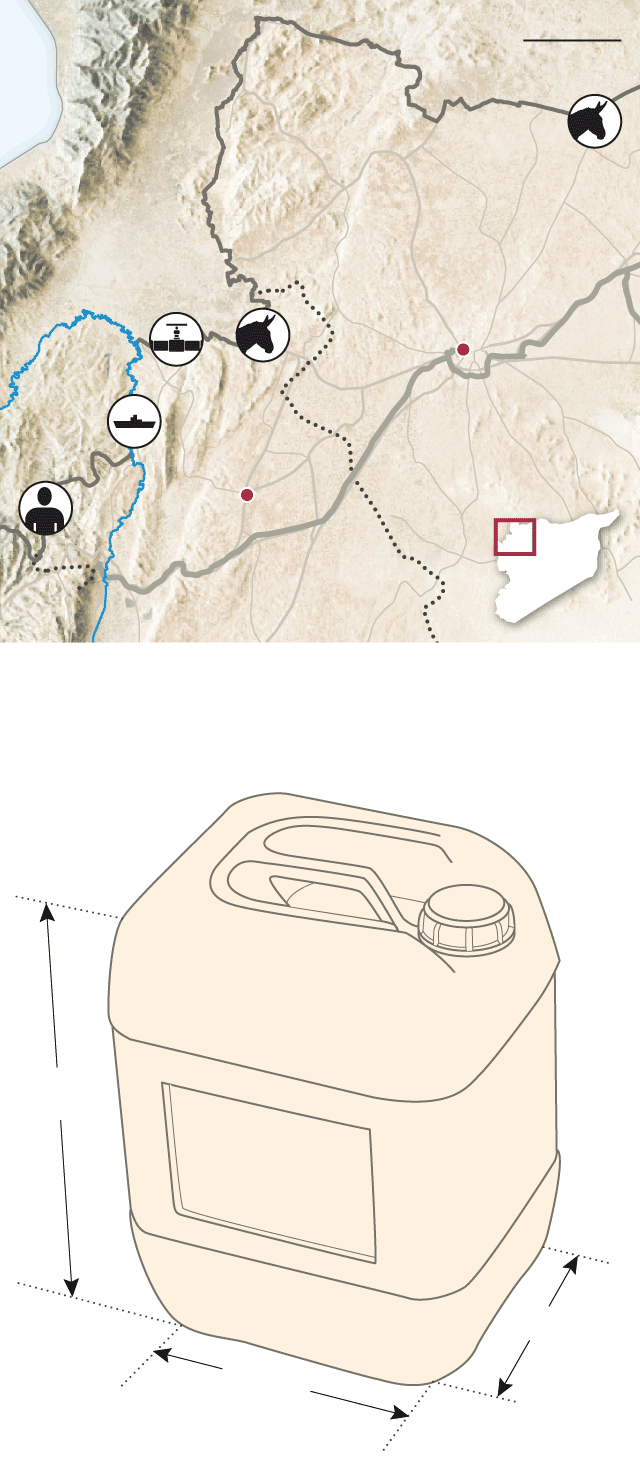
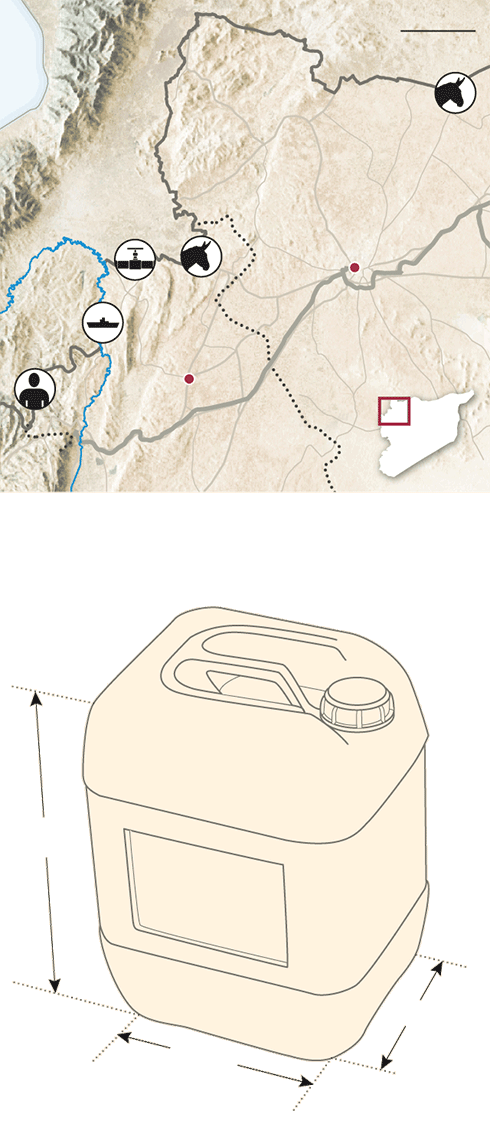
reoptimise pngs

diff --git a/client/index.html b/client/index.html
@@ -200,7 +200,7 @@
             <p class='ig-ai-pstyle1'>Mobile refinery</p>
           </div>
           <div id='ig-ai0-15' class='ig-l-xl ig-ai-abs' style='top:34.8529%;left:39.8522%;'>
-            <p class='ig-ai-pstyle3'>Deir Ezzour</p>
+            <p class='ig-ai-pstyle3'>Deir Ezzor</p>
           </div>
           <div id='ig-ai0-16' class='ig-l-xl ig-ai-abs' style='top:39.1176%;left:87.2622%;'>
             <p class='ig-ai-pstyle1'>Purchased by Isis</p>
@@ -369,7 +369,7 @@
             <p class='ig-ai-pstyle1'>Raqqa</p>
           </div>
           <div id='ig-ai1-7' class='ig-m ig-ai-abs' style='top:33.5832%;left:44.5688%;'>
-            <p class='ig-ai-pstyle1'>Deir Ezzour</p>
+            <p class='ig-ai-pstyle1'>Deir Ezzor</p>
           </div>
           <div id='ig-ai1-8' class='ig-m ig-ai-abs' style='top:53.6732%;left:55.4996%;'>
             <p class='ig-ai-pstyle1'>al-Qaim</p>
@@ -555,7 +555,7 @@
             <p class='ig-ai-pstyle3'>Government</p>
           </div>
           <div id='ig-ai2-8' class='ig-s ig-ai-abs' style='top:28.4483%;left:45.0855%;'>
-            <p class='ig-ai-pstyle2'>Deir Ezzour</p>
+            <p class='ig-ai-pstyle2'>Deir Ezzor</p>
           </div>
           <div id='ig-ai2-9' class='ig-s ig-ai-abs' style='top:46.0345%;left:56.0005%;'>
             <p class='ig-ai-pstyle2'>al-Qaim</p>
@@ -716,7 +716,7 @@
             <p class='ig-ai-pstyle2'>Aleppo</p>
           </div>
           <div id='ig-ai3-7' class='ig-default ig-ai-abs' style='top:20.8238%;left:56.1902%;'>
-            <p class='ig-ai-pstyle2'>Deir Ezzour</p>
+            <p class='ig-ai-pstyle2'>Deir Ezzor</p>
           </div>
           <div id='ig-ai3-8' class='ig-default ig-ai-abs' style='top:35.4691%;left:69.4352%;'>
             <p class='ig-ai-pstyle2'>al-Qaim</p>
@@ -903,7 +903,7 @@
             <p class='ig-ai-pstyle5'>al-Kharata</p>
           </div>
           <div id='ig-ai0-7' class='ig-m-xl ig-ai-abs' style='top:42.9411%;left:40.7761%;'>
-            <p class='ig-ai-pstyle2'>Deir Ezzour</p>
+            <p class='ig-ai-pstyle2'>Deir Ezzor</p>
           </div>
           <div id='ig-ai0-8' class='ig-m-xl ig-ai-abs' style='top:43.5293%;left:82.7810%;width:17.2971%;margin-left:-8.6486%;'>
             <p class='ig-ai-pstyle6'>Iraq</p>
@@ -924,7 +924,7 @@
             <p class='ig-ai-pstyle4'>al-Tanak</p>
           </div>
           <div id='ig-ai0-14' class='ig-m-xl ig-ai-abs' style='top:73.9214%;left:43.2285%;width:19.3511%;margin-left:-9.6756%;'>
-            <p class='ig-ai-pstyle7'>Deir Ezzour</p>
+            <p class='ig-ai-pstyle7'>Deir Ezzor</p>
           </div>
           <div id='ig-ai0-15' class='ig-m-xl ig-ai-abs' style='top:76.6665%;left:10.0818%;width:7.8342%;margin-left:-3.9171%;'>
             <p class='ig-ai-pstyle8'>Syria</p>
@@ -1078,7 +1078,7 @@
             <p class='ig-ai-pstyle6'>al-Kharata</p>
           </div>
           <div id='ig-ai1-8' class='ig-default ig-ai-abs' style='top:41.8367%;left:37.7998%;'>
-            <p class='ig-ai-pstyle3'>Deir Ezzour</p>
+            <p class='ig-ai-pstyle3'>Deir Ezzor</p>
           </div>
           <div id='ig-ai1-9' class='ig-default ig-ai-abs' style='top:42.5170%;left:88.1432%;width:29.7559%;margin-left:-14.8779%;'>
             <p class='ig-ai-pstyle0'>Iraq</p>
@@ -1096,7 +1096,7 @@
             <p class='ig-ai-pstyle5'>al-Tanak</p>
           </div>
           <div id='ig-ai1-14' class='ig-default ig-ai-abs' style='top:73.4694%;left:40.7312%;width:37.5580%;margin-left:-18.7790%;'>
-            <p class='ig-ai-pstyle7'>Deir Ezzour</p>
+            <p class='ig-ai-pstyle7'>Deir Ezzor</p>
           </div>
           <div id='ig-ai1-15' class='ig-default ig-ai-abs' style='top:76.5306%;left:9.8514%;width:13.4772%;margin-left:-6.7386%;'>
             <p class='ig-ai-pstyle8'>Syria</p>
